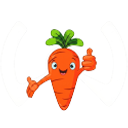
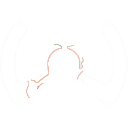
캐럿 휠 변경 드라이브모드 예외처리

Changed region(s): [[0.1875, 0.2188, 0.7812, 0.875]]

diff --git a/selfdrive/ui/mici/onroad/hud_renderer.py b/selfdrive/ui/mici/onroad/hud_renderer.py
@@ -183,6 +183,7 @@ class HudRenderer(Widget):
     self._torque_bar = TorqueBar()
 
     self._txt_wheel: rl.Texture = gui_app.texture('icons_mici/carrot_wheel.png', 50, 50)
+    self._txt_wheel_cap: rl.Texture = gui_app.texture('icons_mici/carrot_wheel_cap.png', 50, 50)
     self._txt_wheel_critical: rl.Texture = gui_app.texture('icons_mici/carrot_wheel_critical.png', 50, 50)
     # self._txt_wheel: rl.Texture = gui_app.texture('icons_mici/wheel.png', 50, 50)
     # self._txt_wheel_critical: rl.Texture = gui_app.texture('icons_mici/wheel_critical.png', 50, 50)
@@ -293,6 +294,7 @@ class HudRenderer(Widget):
       wheel_color = rl.Color(160, 160, 160, int(self._wheel_alpha_filter.x))
 
     rl.draw_texture_pro(wheel_txt, src_rect, dest_rect, origin, rotation, wheel_color)
+    rl.draw_texture_pro(self._txt_wheel_cap, src_rect, dest_rect, origin, rotation, rl.WHITE)
 
     if self._show_wheel_critical:
       EXCLAMATION_POINT_SPACING = 10

diff --git a/opendbc_repo/opendbc/car/hyundai/carstate.py b/opendbc_repo/opendbc/car/hyundai/carstate.py
@@ -480,7 +480,7 @@ class CarState(CarStateBase):
     cp_alt = can_parsers[Bus.alt] if Bus.alt in can_parsers else None
 
     ret = structs.CarState()
-    
+
     self.is_metric = cp.vl["CRUISE_BUTTONS_ALT"]["DISTANCE_UNIT"] != 1
     speed_factor = CV.KPH_TO_MS if self.is_metric else CV.MPH_TO_MS
 
@@ -586,7 +586,6 @@ class CarState(CarStateBase):
       ret.cruiseState.standstill = cp_cruise_info.vl["SCC_CONTROL"]["InfoDisplay"] >= 4
       ret.cruiseState.speed = cp_cruise_info.vl["SCC_CONTROL"]["VSetDis"] * speed_factor
       ret.brakeHoldActive = cp.vl["ESP_STATUS"]["AUTO_HOLD"] == 1 and cp_cruise_info.vl["SCC_CONTROL"]["ACCMode"] not in (1, 2)
-      ret.driveMode = cp_cruise_info.vl["SCC_CONTROL"]["DriveMode"]
 
     speed_limit_cam = False
     corner = False

diff --git a/opendbc_repo/opendbc/car/hyundai/hyundaicanfd.py b/opendbc_repo/opendbc/car/hyundai/hyundaicanfd.py
@@ -857,11 +857,16 @@ def create_ccnc_messages(CP, packer, CAN, frame, CC, CS, hud_control,
           if not CS.out.parkingBrake:
             values["LANE_HIGHLIGHT"] = 2
 
-        # if CS.out.driveMode != 0:
-         # values.update({
-         #   "LANE_HIGHLIGHT": 5,
-        #    "LANE_HIGHLIGHT_DISTANCE": 60
-     #     })
+        try:
+          drive_mode = CS.scc_control["DriveMode"] if CS.scc_control is not None else 0
+        except Exception:
+          drive_mode = 0
+
+        if drive_mode != 0:
+          values.update({
+            "LANE_HIGHLIGHT": 5,
+            "LANE_HIGHLIGHT_DISTANCE": 60
+          })
 
         # 차선 위치 갱신: 횡컨 때만 적용
         # if lat_enabled and CS.ccnc_0x1b5 is not None:
